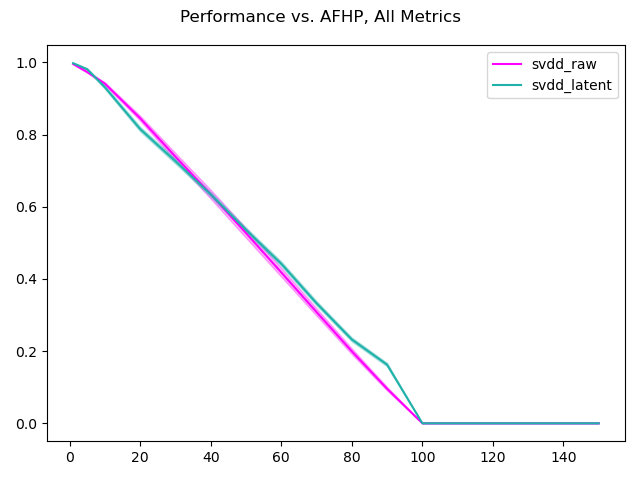
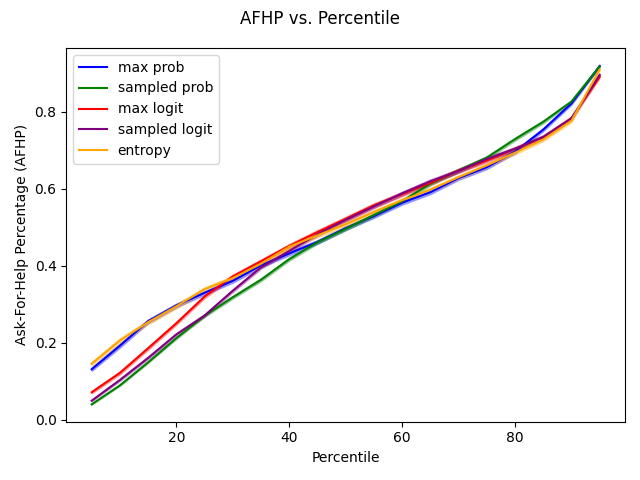
results

diff --git a/full_analysis.py b/full_analysis.py
@@ -161,7 +161,8 @@ expert_perf_mean /= norm_factor
 
 
 percentiles = range(5, 96, 5)
-pseudo_percentiles = [1, 5] + list(range(10, 151, 10))
+# pseudo_percentiles = [1, 5] + list(range(10, 151, 10))
+pseudo_percentiles = [1, 5] + list(range(10, 101, 10))
 query_costs = [0, 0.1, 0.5, 1, 5, 10, 20, 50]
 include_metrics = [m for m in helped_logs.keys() if m in args.include and m not in args.exclude]
 if args.grand_metric:
@@ -446,7 +447,9 @@ if args.plotting:
             axes2.plot(percentiles if "svdd" not in metric else pseudo_percentiles, help_prop_means, color = colors[metric], label = metric)
             axes2.fill_between(percentiles if "svdd" not in metric else pseudo_percentiles, help_prop_means - help_prop_sems, help_prop_means + help_prop_sems, color = colors[metric], alpha = 0.3)
         axes2.legend()
-        fig2.suptitle("Performance vs. AFHP, All Metrics")
+        axes2.set_xlabel("Percentile")
+        axes2.set_ylabel("Ask-For-Help Percentage (AFHP)")
+        fig2.suptitle("AFHP vs. Percentile")
         fig2.tight_layout()
         fig2.savefig(f"plots/{args.test_env}/{args.prefix}_afhp_by_percentile_all{args.suffix}.png")
         print("Done one plot of grouped 2")
@@ -476,7 +479,9 @@ if args.plotting:
         axes5.plot([smallest_afhp, biggest_afhp], [expert_perf_mean] * 2, color = "tab:brown", label = f"expert agent in test", linestyle = "dotted")
         axes5.legend()
         axes6.legend()
-        fig5.suptitle("Performance vs. AFHP, All Metrics")
+        axes5.set_xlabel("Ask-For-Help Percentage (AFHP)")
+        axes5.set_ylabel("Average Normalized Reward")
+        fig5.suptitle("Performance vs. AFHP")
         fig6.suptitle("Performance vs. AFHP, All Metrics")
         fig5.tight_layout()
         fig6.tight_layout()
